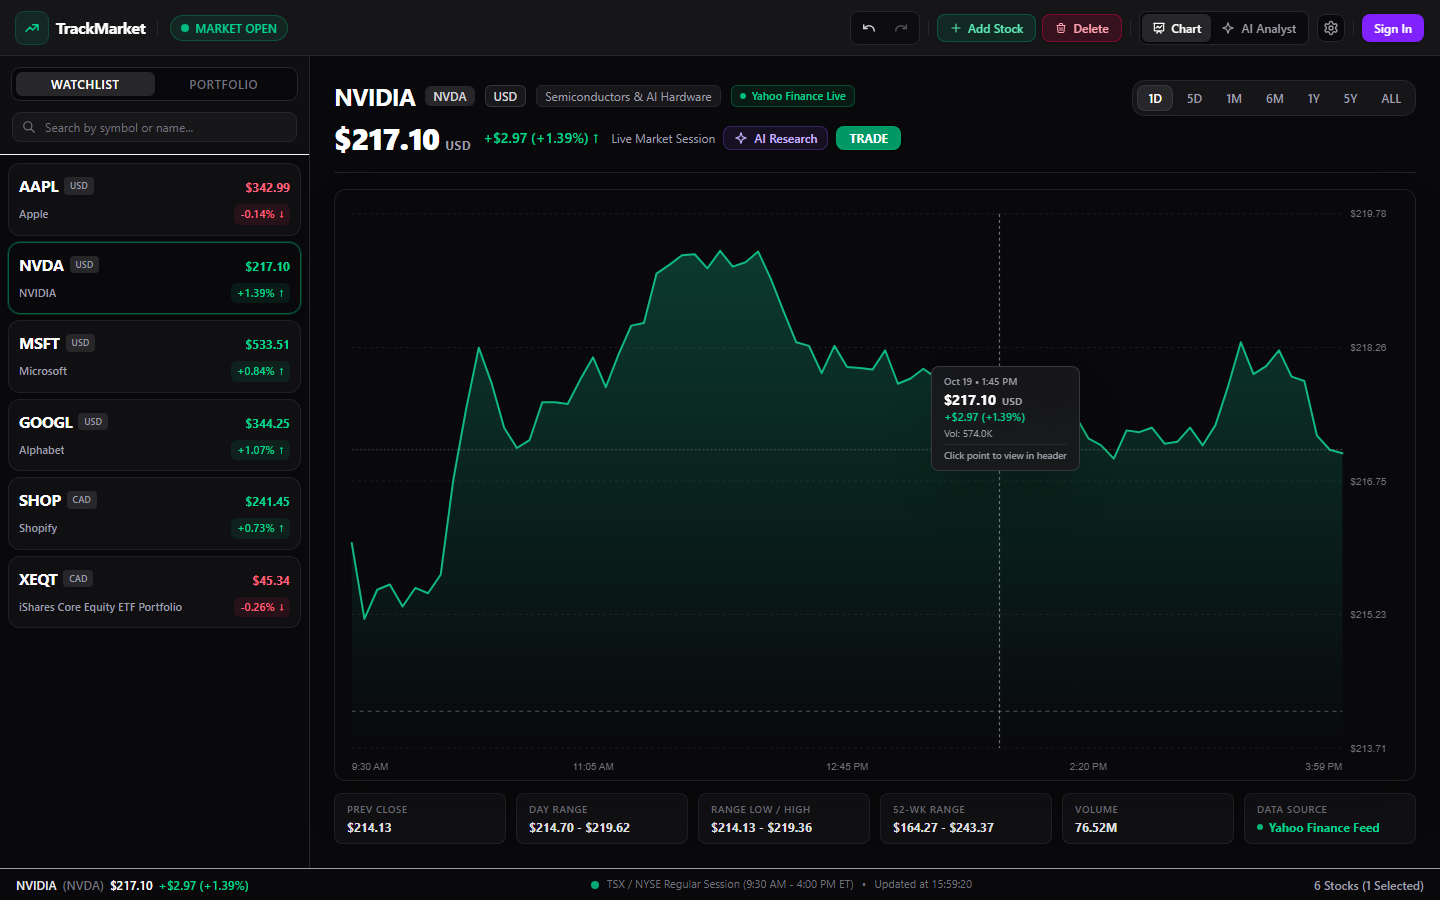
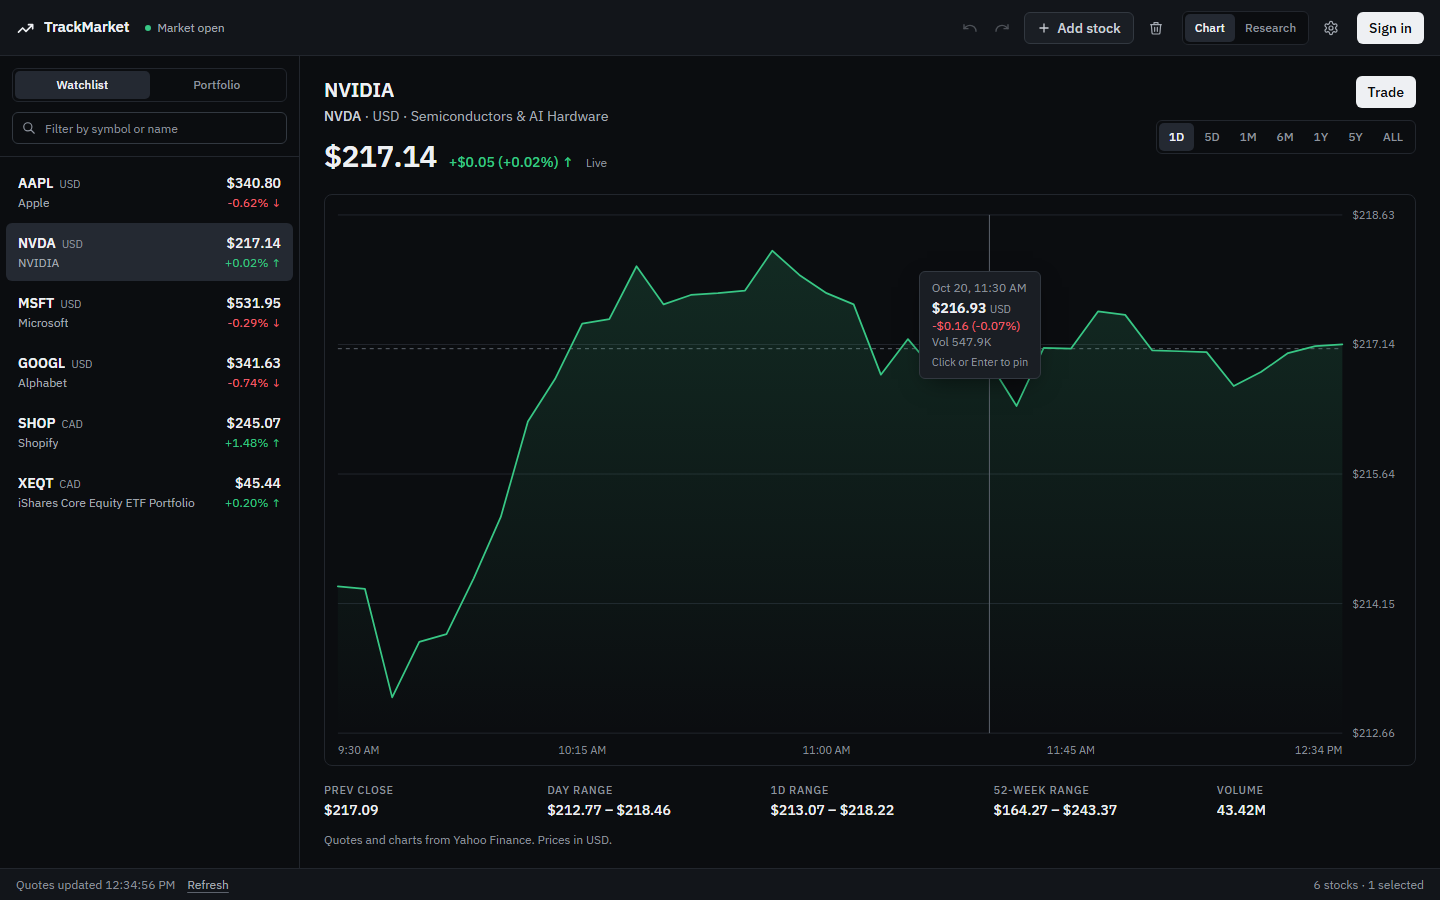
docs: add DESIGN.md and refresh README screenshots

diff --git a/DESIGN.md b/DESIGN.md
@@ -1,0 +1,216 @@
+---
+name: TrackMarket
+description: Live US and Canadian stock watchlist, charts, AI research and paper trading
+colors:
+  canvas: "#0b0d10"
+  surface: "#12151a"
+  raised: "#1a1e24"
+  raised-hover: "#242932"
+  line: "#22262d"
+  line-strong: "#323840"
+  ink: "#eef0f3"
+  ink-soft: "#cbcfd6"
+  ink-muted: "#a5abb4"
+  ink-subtle: "#8d939d"
+  ink-faint: "#5c626c"
+  up: "#38c785"
+  down: "#f2606f"
+typography:
+  display:
+    fontFamily: "IBM Plex Sans, ui-sans-serif, system-ui, sans-serif"
+    fontSize: "1.875rem"
+    fontWeight: 600
+    letterSpacing: "-0.02em"
+    fontFeature: "tnum"
+  headline:
+    fontFamily: "IBM Plex Sans, ui-sans-serif, system-ui, sans-serif"
+    fontSize: "1.25rem"
+    fontWeight: 600
+    letterSpacing: "-0.01em"
+  title:
+    fontFamily: "IBM Plex Sans, ui-sans-serif, system-ui, sans-serif"
+    fontSize: "0.875rem"
+    fontWeight: 600
+  body:
+    fontFamily: "IBM Plex Sans, ui-sans-serif, system-ui, sans-serif"
+    fontSize: "0.875rem"
+    fontWeight: 400
+    lineHeight: 1.5
+  label:
+    fontFamily: "IBM Plex Sans, ui-sans-serif, system-ui, sans-serif"
+    fontSize: "0.6875rem"
+    fontWeight: 500
+    letterSpacing: "0.06em"
+rounded:
+  sm: "4px"
+  md: "6px"
+  lg: "8px"
+  xl: "12px"
+spacing:
+  xs: "4px"
+  sm: "8px"
+  md: "12px"
+  lg: "16px"
+  xl: "24px"
+components:
+  button-primary:
+    backgroundColor: "{colors.ink}"
+    textColor: "{colors.canvas}"
+    rounded: "{rounded.md}"
+    height: "32px"
+    padding: "0 12px"
+  button-secondary:
+    backgroundColor: "{colors.raised}"
+    textColor: "{colors.ink-soft}"
+    rounded: "{rounded.md}"
+    height: "32px"
+    padding: "0 12px"
+  button-secondary-hover:
+    backgroundColor: "{colors.raised-hover}"
+    textColor: "{colors.ink}"
+  button-ghost:
+    textColor: "{colors.ink-muted}"
+    rounded: "{rounded.md}"
+    height: "32px"
+  button-danger:
+    textColor: "{colors.down}"
+    rounded: "{rounded.md}"
+    height: "32px"
+  input:
+    backgroundColor: "{colors.canvas}"
+    textColor: "{colors.ink}"
+    rounded: "{rounded.md}"
+    height: "36px"
+    padding: "0 12px"
+  watchlist-row:
+    textColor: "{colors.ink}"
+    rounded: "{rounded.md}"
+    padding: "10px 12px"
+  watchlist-row-selected:
+    backgroundColor: "{colors.raised-hover}"
+  dialog:
+    backgroundColor: "{colors.surface}"
+    rounded: "{rounded.xl}"
+---
+
+# Design System: TrackMarket
+
+## Overview
+
+**Creative North Star: "The Trading Desk"**
+
+TrackMarket is a tool people sit inside while markets move, so the interface behaves like a well-run trading desk: dense, quiet and precise. Data is the hero. The chrome is a set of cool, near-black neutrals that recede until a number changes, and colour is spent only where it carries meaning.
+
+Density is a feature. Rows are tight, labels are small and uppercase, and numerals are tabular so columns of prices line up. Hierarchy comes from weight, size and space rather than from colour or decoration: no gradients, glows, coloured side stripes or icon tiles.
+
+The look is dark by design, from the use scene: watching a screen for hours, often next to other trading tools.
+
+**Key Characteristics:**
+- Neutral surfaces with one tonal step per layer (canvas, surface, raised)
+- Green and red reserved for price direction, always paired with ↑/↓ or a sign
+- One family (IBM Plex Sans) for everything, tabular numerals for every figure
+- Hairline borders and tonal layering instead of shadows
+- Fast, functional motion; nothing loops except loading skeletons
+
+## Colors
+
+A cool, near-black neutral ramp carries the whole interface. Two semantic hues mark direction.
+
+### Primary
+- **Desk White** (#eef0f3): primary text, and the fill of the single primary action on a screen (Sign in, Trade, Save). On dark, a light button is the most decisive call to action without adding a brand hue.
+
+### Secondary
+- **Advance Green** (#38c785): a price, change or return that is up; the open-market dot; Buy in the trade history.
+- **Decline Red** (#f2606f): a price, change or return that is down; destructive actions; errors.
+
+### Neutral
+- **Canvas** (#0b0d10): the app background and input fields.
+- **Surface** (#12151a): toolbar, footer and dialogs.
+- **Raised** (#1a1e24) and **Raised Hover** (#242932): secondary buttons, hovered rows, and the selected row.
+- **Line** (#22262d) and **Line Strong** (#323840): hairline dividers, then borders on controls and dialogs.
+- **Ink Soft** (#cbcfd6), **Ink Muted** (#a5abb4), **Ink Subtle** (#8d939d): secondary text, descending. All three pass 4.5:1 on Canvas and Surface.
+- **Ink Faint** (#5c626c): disabled controls and decorative separators only, never text that must be read.
+
+### Named Rules
+**The Meaning-Only Rule.** Green and red appear only when they say up or down (or destroy). A button, badge or heading is never coloured for emphasis.
+
+**The No-Gray-On-Color Rule.** Text on a tinted surface uses Ink or the surface's own hue, never a mid-gray.
+
+## Typography
+
+**Display Font:** IBM Plex Sans (with system-ui fallback)
+**Body Font:** IBM Plex Sans
+**Label/Mono Font:** IBM Plex Sans for labels; the platform monospace only inside AI-report code blocks.
+
+**Character:** Plex has a quietly technical, engineered feel that suits a terminal without resorting to monospace, and its tabular figures keep prices aligned.
+
+### Hierarchy
+- **Display** (600, 1.875rem, tracking -0.02em, tabular): the live price in the stock header.
+- **Headline** (600, 1.25rem, tracking -0.01em): the company name and empty-state headings.
+- **Title** (600, 0.875rem): symbols in rows, section headings, report titles.
+- **Body** (400, 0.875rem, line-height 1.5): descriptions and help text; AI reports at 0.875rem/1.65 with a 72ch measure.
+- **Label** (500, 0.6875rem, tracking 0.06em, uppercase): stat names and section labels. 11px is the floor; nothing renders smaller.
+
+### Named Rules
+**The Tabular Rule.** Every number that can change (prices, changes, volumes, totals, times) is set with `tabular-nums`.
+
+## Layout
+
+A fixed app frame: a 56px toolbar, a 300px watchlist rail on the left, the detail pane filling the rest, and a 32px footer. Below the `md` breakpoint the rail and the detail pane become separate screens, and the toolbar drops undo/redo and the view switch. Spacing follows a 4px rhythm; groups sit 8–12px apart and sections 24px apart. The research view caps its two-column layout at 72rem.
+
+## Elevation & Depth
+
+Flat by default. Depth is tonal: each layer steps one shade lighter (Canvas, then Surface, then Raised). Shadows appear only on things that float above the frame.
+
+### Shadow Vocabulary
+- **Dialog** (`box-shadow: 0 24px 64px -16px rgb(0 0 0 / 0.7)`): dialogs over the dimmed app.
+- **Popover** (`box-shadow: 0 8px 24px -8px rgb(0 0 0 / 0.6)`): the chart tooltip and toasts.
+
+### Named Rules
+**The Hairline Rule.** Structure comes from 1px lines and tonal steps. A coloured border thicker than 1px never marks a card, row or callout.
+
+## Shapes
+
+Gently rounded and consistent: 4px for small marks (keys, skeleton bars), 6px for every control and row, 8px for containers like the chart frame and tables, and 12px for dialogs. Status dots are the only circles.
+
+## Components
+
+### Buttons
+- **Shape:** gently rounded (6px), 32px tall by default, 28px in dense rows, 40px for full-width form actions.
+- **Primary:** Desk White fill with Canvas text. One per screen.
+- **Secondary:** Raised fill, Line Strong border, Ink Soft text, brightening to Ink on hover.
+- **Ghost:** no fill; Ink Muted text gaining a Raised fill on hover. Used for icon buttons.
+- **Danger:** Decline Red text and a 40% red border, tinting on hover.
+- **Disabled:** 40% opacity and a not-allowed cursor.
+- **Focus:** a 2px Desk White outline, offset 2px, for keyboard focus only.
+
+### Segmented controls
+- **Style:** a Canvas track with a Line border holding 28px segments; the active segment takes Raised Hover with Ink text. Used for Watchlist/Portfolio, Chart/Research, timeframes, Buy/Sell and CAD/USD.
+
+### Inputs / Fields
+- **Style:** Canvas fill, Line Strong border, 6px radius, 36px tall, with persistent labels (visually hidden only for single search fields).
+- **Focus:** the border lightens and a 1px Ink Muted outline appears.
+- **Error:** the message sits below in Decline Red with `role="alert"`.
+
+### Watchlist rows
+- **Style:** full-width rows rather than cards: symbol and currency over the company name, price over the change. Hover takes Raised; selection takes Raised Hover. Rows waiting for their first live quote show a skeleton instead of a stale price.
+
+### Dialogs
+- **Style:** Surface panel, Line Strong border, 12px radius and the Dialog shadow over a 70% black scrim. Every dialog traps focus, closes on Escape and returns focus to where it was opened.
+
+### Price chart (signature)
+- **Style:** a hand-built SVG in an 8px Line frame. The line is 1.75px in Advance Green or Decline Red, over a 16%-to-transparent fill of the same hue. Gridlines are Line hairlines, and the previous close is a dashed Ink Faint line. The hover marker is a Canvas dot ringed in the direction colour, and the pinned point is a solid Desk White dot. Arrow keys scrub and Enter pins.
+
+## Do's and Don'ts
+
+### Do:
+- **Do** keep green and red for direction and destructive actions, and pair them with ↑/↓ or a sign.
+- **Do** use the shared classes in `src/components/ui.ts` for buttons, inputs and segmented controls.
+- **Do** set every changing number with `tabular-nums`.
+- **Do** show a skeleton, not a placeholder price, until a real quote arrives.
+
+### Don't:
+- **Don't** add a brand accent colour, gradient, or glow; the previous violet gradient accents were removed deliberately.
+- **Don't** use coloured left stripes, icon tiles above headings, or grids of identical icon cards.
+- **Don't** render text below 11px or use Ink Faint for readable text.
+- **Don't** use emoji or Unicode glyphs as icons.

diff --git a/README.md b/README.md
@@ -5,13 +5,13 @@
 
 **A stock market dashboard and research terminal for US and Canadian markets.** Build a watchlist of NYSE, NASDAQ, and TSX stocks, watch prices update live during market hours, scrub through interactive charts, generate AI research reports grounded in Google Search, and practice trading with a paper portfolio.
 
-**[Try the live app →](https://trackmarket.dev)** The watchlist and charts work without an account. Sign in to paper trade, and add a free Gemini key for AI research.
+**[Try the live app →](https://trackmarket.dev)** A starter watchlist and a live chart load on your first visit, no account needed. Sign in to paper trade, and add a free Gemini key for AI research.
 
 ![TrackMarket showing NVIDIA's intraday chart with the crosshair tooltip and a live watchlist](docs/screenshot-chart.png)
 
 <table>
   <tr>
-    <td><img src="docs/screenshot-search.png" alt="The Add Stock dialog with category filters, live prices, and AI global search" /></td>
+    <td><img src="docs/screenshot-search.png" alt="The Add a stock dialog with category filters and a directory of US and TSX listings" /></td>
   </tr>
   <tr>
     <td align="center"><sub>Search a built-in ticker directory, or let Gemini identify any listed company by name</sub></td>
@@ -26,6 +26,7 @@
 - **Paper trading.** Sign in to start with $100,000 CAD in paper money. Buy and sell at live prices, track positions and all-time return, review your transaction history, and switch between CAD and USD at the live exchange rate.
 - **Cross-exchange search.** Filter a built-in directory of popular stocks and ETFs by category, or type any company name and have Gemini resolve its ticker, exchange, and currency.
 - **Undoable watchlist.** Shift-click to multi-select, use keyboard shortcuts, and undo or redo any edit. The watchlist syncs to your account when you're signed in.
+- **Keyboard and screen-reader friendly.** Dialogs trap focus and close on Escape, the chart scrubs with the arrow keys and carries a text summary, and up/down is never shown by colour alone.
 
 ## Architecture
 
@@ -50,17 +51,19 @@ flowchart LR
 ### Design decisions
 
 - **No backend of my own.** It's a static app on GitHub Pages. Yahoo Finance doesn't send CORS headers, so quotes go through a small Cloudflare Worker that adds them. In development, the Vite dev server proxies `/api/yahoo` instead. Every quote request tries its endpoints in order with a 4-second timeout.
-- **Fine-grained reactivity with Signals.** All state lives in one store ([`src/state.ts`](src/state.ts)) built from `@preact/signals`. A price tick only updates the DOM nodes that read that price, instead of re-rendering the watchlist, so polling every 20 seconds stays cheap.
+- **Only changed rows re-render.** All state lives in one store ([`src/state.ts`](src/state.ts)) built from `@preact/signals`. When a quote arrives, rows whose price didn't move keep the same object, and the memoized watchlist rows skip rendering, so polling every 20 seconds stays cheap even with 50 stocks.
+- **No fake numbers.** The starter watchlist and newly added stocks show a loading skeleton until their first real quote arrives, rather than a stale catalogue price, and the trade form won't place an order until then.
 - **Trades settle in the database.** The client only inserts a row into `transactions`. A Postgres trigger rejects the trade if the user lacks the cash or shares, otherwise it updates `positions` and the cash balance, and the client then reloads its portfolio. The trading rules therefore live in one place.
 - **Money is rounded before it's compared.** The ledger is stored in CAD at two decimal places. USD prices are converted and rounded the same way on the trade form and in the portfolio total. Before that, sub-cent differences between the two showed up as small "ghost" profits.
 - **Ground the model in real numbers.** The "past week" report fetches Yahoo's 5-day series first and puts the exact start price, end price, and range into the prompt. The model then explains the move instead of guessing it. Every prompt also includes today's date in ET, so the model searches for current facts rather than relying on its training data.
+- **A written design system.** [`DESIGN.md`](DESIGN.md) documents the tokens and rules: cool neutrals for the interface, green and red only for price direction, IBM Plex Sans with tabular numerals, and hairlines instead of shadows. Shared button, input and segmented-control classes live in [`src/components/ui.ts`](src/components/ui.ts).
 - **Undo as commands.** Watchlist edits and selections are `{ do, undo }` commands ([`src/undo.ts`](src/undo.ts)), and each one also mirrors its change to Supabase. Undoing a delete therefore restores it in your account too.
 
 ## Tech stack
 
 | Layer | Tools |
 |---|---|
-| Frontend | Preact 10, @preact/signals, TypeScript, Vite 7, Tailwind CSS 4, marked |
+| Frontend | Preact 10, @preact/signals, TypeScript, Vite 7, Tailwind CSS 4 (tokens via `@theme`), IBM Plex Sans, marked |
 | Market data | Yahoo Finance chart API via a Cloudflare Worker proxy |
 | AI | Google Gemini 3.8 Flash with Google Search grounding |
 | Data & auth | Supabase Auth + Postgres (watchlists, positions, transactions) |
@@ -79,7 +82,10 @@ src/
     gemini.ts         search-grounded quotes, ticker resolution, research prompts
     smartSync.ts      market-hours-aware polling schedule
     supabase.ts       Supabase client
-  components/         toolbar, watchlist/portfolio, chart, AI analyst, modals
+  components/         toolbar, watchlist/portfolio, chart, research view, dialogs
+    ui.ts             shared button, input and segmented-control classes
+    Dialog.tsx        focus-trapping dialog shell used by every modal
+DESIGN.md             design tokens and rules
 ```
 
 ## Running locally
